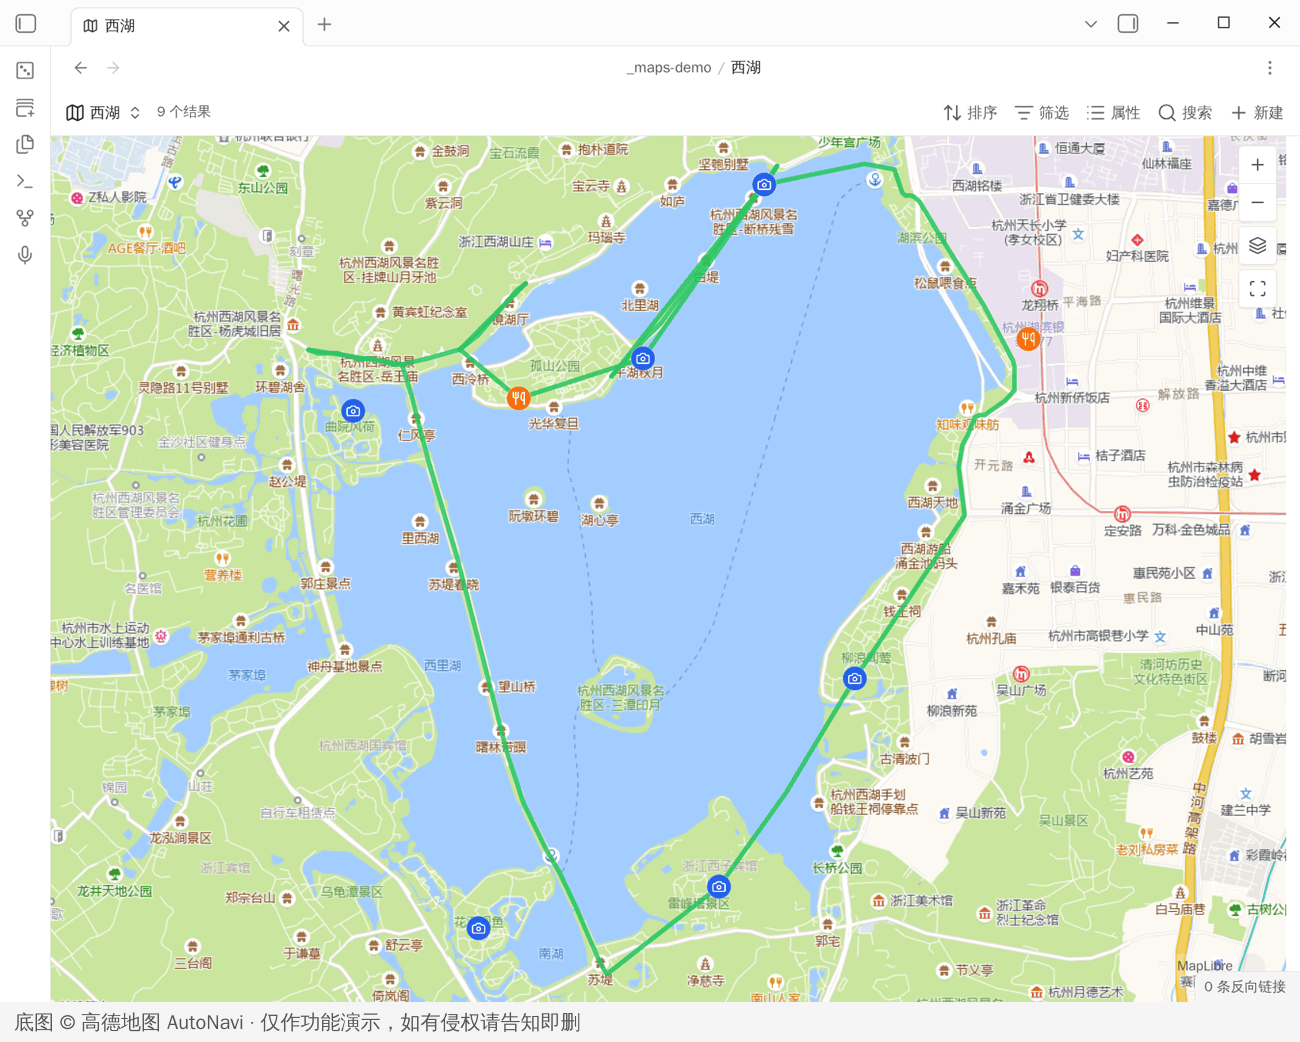
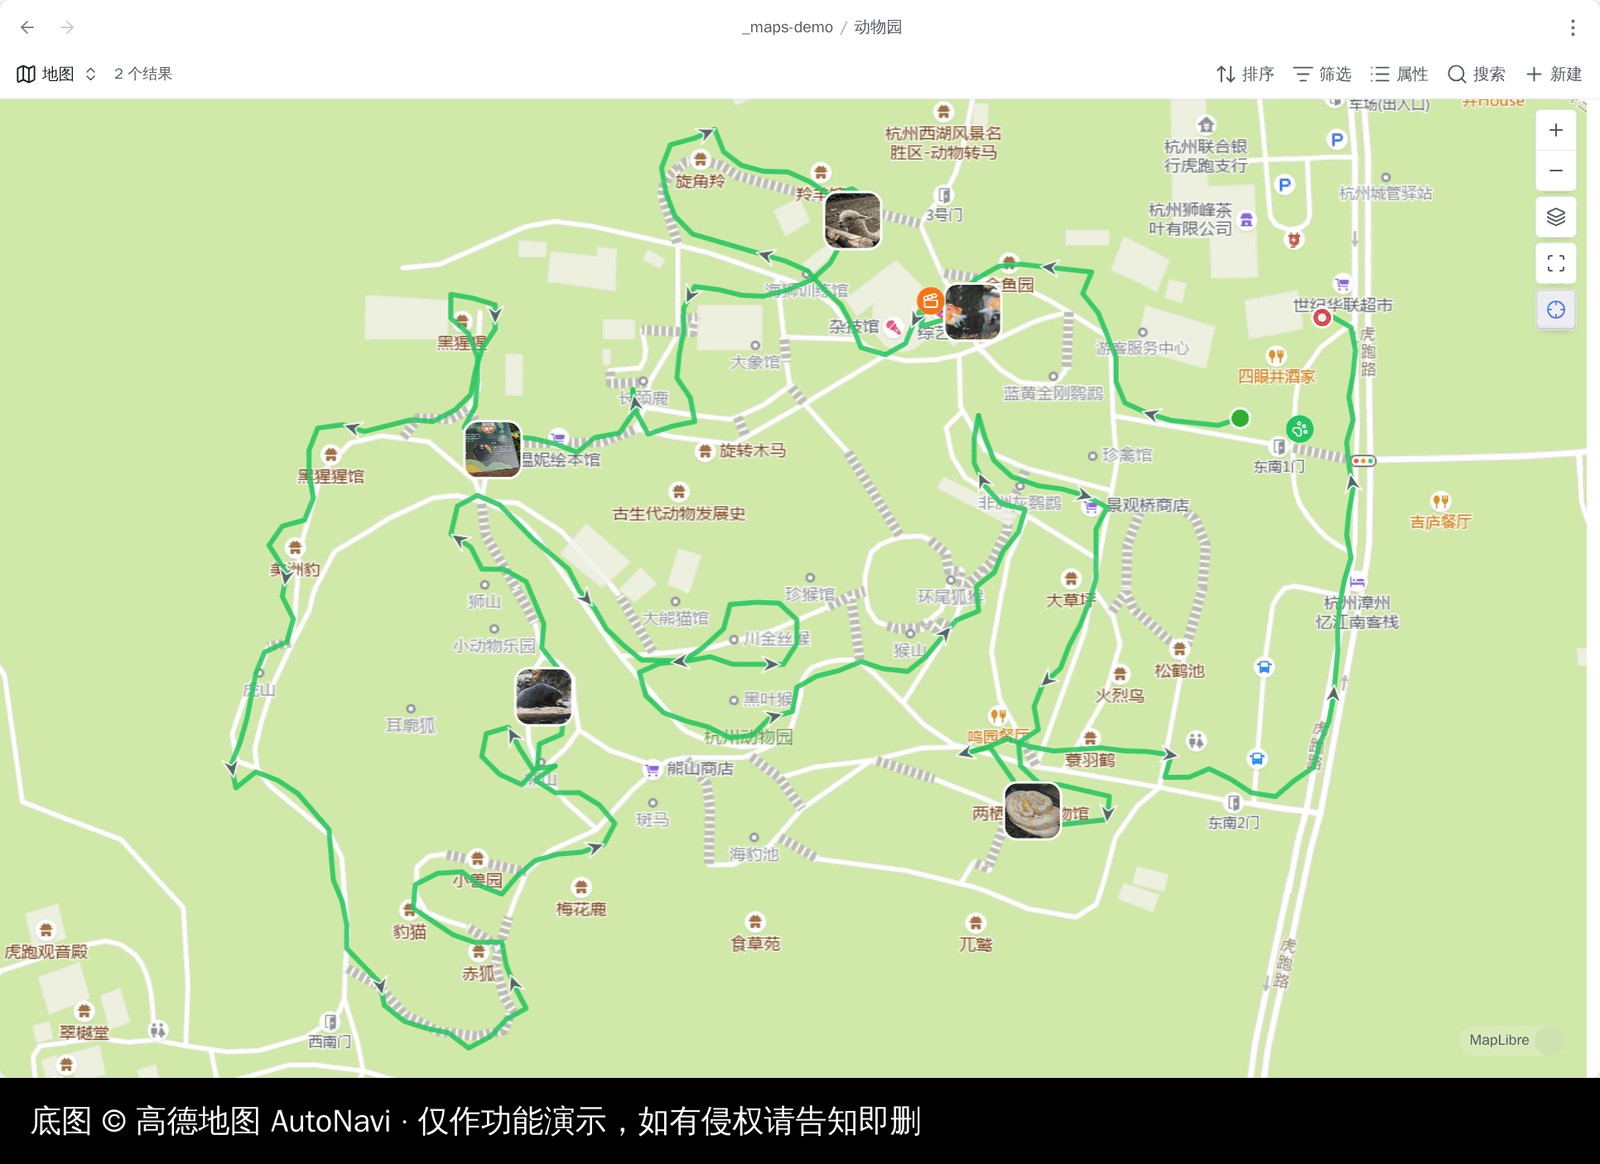
Shoot the photo screenshots against a real walk
The three photo images were synthetic gradients with a place name written
across them, which is what a broken thumbnail looks like rather than what
the feature does. They are now one real afternoon: a 3.1 km GPX loop
through Hangzhou Zoo and five photos taken along it, each landing on the
enclosure the basemap names — 金鱼园, 黑猩猩馆, 熊山, 两栖爬行动物馆 — which
is also the clearest proof of the GCJ-02 alignment this repo has. That
image is the README's lead now, since the old lead had no photos in it.

The demo notes behind them are still synthetic and still deleted
afterwards; only the photographs and the track are real, and they are
animals in a public zoo with nothing else personal on screen. The
Attribution section says so rather than keeping its "nothing personal is
shown" claim, and the satellite frame carries Esri's own line.

photo-map and photo-popup are .jpg: photographic content is 2-4 MB as a
PNG even quantised, and 340 KB as a JPEG. The lead is still a PNG,
quantised to 256 colours — 337 KB to 262 KB, map graphics losing nothing.

The manifest description was a list that had not heard of photos and
still counted three ways to fill a coordinate. Both READMEs' opening
paragraphs counted three too.

Claude-Session: https://claude.ai/code/session_01NcC4DMWVih3ZuwwnMzmFZX

diff --git a/README.zh-CN.md b/README.zh-CN.md
@@ -5,11 +5,12 @@
 
 **简体中文** · [English](README.md)
 
-给 Obsidian 内置的 **Maps** 视图做加法，而不是另起炉灶：GPX 轨迹、国内坐标系、内联
-地图，以及三种填坐标的方式。内置视图已经做好的部分——标记、图标、颜色、底图、气
-泡——仍然由内置视图来做。不带 Leaflet，不内嵌任何地图库，没有任何运行时依赖。
+给 Obsidian 内置的 **Maps** 视图做加法，而不是另起炉灶：GPX 轨迹、带定位的照片、国
+内坐标系、内联地图，以及四种填坐标的方式。内置视图已经做好的部分——标记、图标、颜
+色、底图、气泡——仍然由内置视图来做。不带 Leaflet，不内嵌任何地图库，没有任何运行时
+依赖。
 
-![国内底图上的 Bases 地图视图：从笔记附件读出的 13.6 公里 GPX 环线，每篇笔记的图钉是它自己的颜色](docs/map-view.png)
+![国内底图上的 Bases 地图视图：一个下午绕动物园走出来的 GPX 环线，沿途拍的照片按各自 EXIF 的坐标画成自己的缩略图，每篇笔记的图钉是它自己的颜色](docs/map-view.png)
 
 ## 它解决什么问题
 
@@ -62,7 +63,7 @@ Obsidian 1.13.1 或更新版本，启用 **Bases**，并装上第一方的 **Map
 成后会变成地图上的图标；解码完成之前，以及标签里根本没有缩略图的时候，先用一个普通
 圆点顶上。
 
-![西湖边的六张照片，每一张都用自己的缩略图画在 EXIF 标注的坐标上——这几篇笔记自己都没有坐标属性](docs/photo-map.png)
+![页首那次动物园行走换成卫星影像：笔记自己只有一个坐标，它的五张照片各自按 EXIF 记下的位置画成自己的缩略图](docs/photo-map.jpg)
 
 缩小地图时，挤在一起的照片会自己变稀疏，不会堆成看不清的一团；放大到有地方摆得下，
 它们又会回来。**在地图上显示照片**和**显示照片缩略图**可以分别关掉这两半；**照片坐
@@ -72,7 +73,7 @@ Obsidian 1.13.1 或更新版本，启用 **Bases**，并装上第一方的 **Map
 内联的 `![[track.gpx]]` 地图会把它所在这篇笔记的照片一并画出来，于是一次行走和这次
 行走拍的照片就在同一张图上。下面那行距离、爬升和高程剖面仍然只算轨迹本身。
 
-![一段苏堤散步的内联地图，笔记里的三张照片画在线上，下面是距离、爬升和高程剖面](docs/photo-embed.png)
+![同一次行走的内联地图，这篇笔记自己的照片画在线上，下面是距离、爬升和高程剖面](docs/photo-embed.png)
 
 悬停在照片上，出来的是它所属笔记的卡片，和悬停在轨迹上是同一张。点它，出来的是照片
 本身，下面带一个**打开笔记**——一篇笔记常常挂着十几张照片，直接打开笔记就把「你指的
@@ -80,7 +81,7 @@ Obsidian 1.13.1 或更新版本，启用 **Bases**，并装上第一方的 **Map
 栏变成活动栏，用标签页打开图片就会把你刚点的那张地图顶掉。按住 Ctrl/Cmd 仍然可以在
 新标签页里打开图片文件。
 
-![从地图上点开的照片：原图在地图之上的弹窗里，上方是文件名，下方是「打开笔记」](docs/photo-popup.png)
+![从地图上点开的照片：原图在地图之上的弹窗里，上方是文件名，下方是「打开笔记」](docs/photo-popup.jpg)
 
 _从照片填写坐标_ 把同一个标签直接读进笔记的 `coords` 属性，给那些希望自己也带着坐标、
 而不只是靠照片画出来的笔记用。
@@ -277,8 +278,9 @@ _从坐标填写地名_ 读笔记的坐标属性，把地址写回**地名属性
 
 ## 版权与致谢
 
-截图是在第三方底图和搜索服务上拍的，只为展示插件做了什么，每张图都标注了来源。背后那个
-演示库是合成的——地点和路线都是公开数据，没有任何私人内容。
+截图是在第三方底图和搜索服务上拍的，只为展示插件做了什么，每张图都标注了来源。背后那些
+演示笔记是合成的，西湖那几处地点和路线都是公开数据；动物园的照片和穿过它的那条轨迹是作
+者自己的——一个下午，公共动物园里的动物——除此之外没有任何私人内容。
 
 插件本身不附带任何地图数据。它画的是视图配置的那一套瓦片，其版权、许可与测绘审批要求属
 于瓦片提供方和使用者。如果你持有此处复现内容的权利并希望移除，请

diff --git a/README.md b/README.md
@@ -6,12 +6,12 @@
 **English** · [简体中文](README.zh-CN.md)
 
 Adds to Obsidian's built-in **Maps** view instead of replacing it: GPX tracks,
-Chinese coordinate systems, inline maps, and three ways to fill in a note's
-coordinates. Everything the built-in view already does — markers, icons, colours,
-tiles, popups — stays the built-in view doing it. No Leaflet, no vendored map
-library, no runtime dependencies.
+geotagged photos, Chinese coordinate systems, inline maps, and four ways to fill
+in a note's coordinates. Everything the built-in view already does — markers,
+icons, colours, tiles, popups — stays the built-in view doing it. No Leaflet, no
+vendored map library, no runtime dependencies.
 
-![A Bases map view on a mainland basemap: a 13.6 km GPX loop drawn from a note's embed, with each note's pin in its own colour](docs/map-view.png)
+![A Bases map view on a mainland basemap: an afternoon's GPX loop through a zoo, the photos taken along it drawn as their own thumbnails where their EXIF says they were taken, each note's pin in its own colour](docs/map-view.png)
 
 ## What it fixes
 
@@ -66,7 +66,7 @@ includes that note draws it. The photo's own embedded thumbnail becomes its
 icon on the map once it has decoded; a plain dot stands in until then, and
 whenever the tags carried no thumbnail at all.
 
-![Six photos around West Lake, each drawn as its own thumbnail at the coordinate its EXIF names — none of these notes carries a coordinate property of its own](docs/photo-map.png)
+![The zoo walk from the top of this page on satellite imagery: the note carries one coordinate of its own, and its five photos are drawn as their own thumbnails wherever their EXIF says they were taken](docs/photo-map.jpg)
 
 Zoomed out, a cluster of nearby photos thins on its own rather than piling
 into an unreadable stack, and comes back the moment you zoom in far enough to
@@ -80,7 +80,7 @@ An inline `![[track.gpx]]` map draws the photos of the note it sits in, so a
 walk and the pictures taken on it are one map. The distance, ascent and
 elevation profile underneath still measure the track alone.
 
-![An inline map of a causeway walk with three of the note's photos drawn along the line, and distance, ascent and an elevation profile below it](docs/photo-embed.png)
+![An inline map of the same walk with the note's own photos drawn along the line, and distance, ascent and an elevation profile below it](docs/photo-embed.png)
 
 Hovering a photo shows its note's card, the same one hovering a track shows.
 Clicking it shows the photo, full size, with an **Open note** row underneath —
@@ -90,7 +90,7 @@ clicking a map makes that map's pane the active one, so opening the picture in
 a pane would replace the map you clicked on. Hold Ctrl/Cmd to get the image
 file in a new tab anyway.
 
-![A photo opened from the map: the picture at full size in a pop-up over the map, its file name above it and an "open note" row below](docs/photo-popup.png)
+![A photo opened from the map: the picture at full size in a pop-up over the map, its file name above it and an "open note" row below](docs/photo-popup.jpg)
 
 _Set coordinates from a photo_ reads the same tag straight into a note's
 `coords` property, for a note that should carry its own coordinate rather than
@@ -317,9 +317,10 @@ way a note's text is not.
 ## Attribution
 
 The screenshots were taken against third-party basemaps and search services to
-show what the plugin does; each image carries its source. The demo vault behind
-them is synthetic — the places and the trail are openly published data, and
-nothing personal is shown.
+show what the plugin does; each image carries its source. The demo notes behind
+them are synthetic, and the West Lake places and trail are openly published data.
+The zoo photographs and the track through them are the author's own — one
+afternoon, animals in a public zoo — and nothing else personal is shown.
 
 The plugin ships no map data of its own. It draws whatever tiles the view is
 configured with, and their copyright and licensing are the tile provider's and

diff --git a/CHANGELOG.md b/CHANGELOG.md
@@ -6,6 +6,14 @@ where they do not.
 
 ## [Unreleased]
 
+### Changed
+
+- The plugin description now names photos and counts four ways to fill a
+  coordinate, rather than three.
+- The screenshots of the photo features are a real walk with real photos taken
+  along it, instead of synthetic placeholder images, and the README's lead
+  image is one of them.
+
 ## [1.12.0]
 
 ### Added
